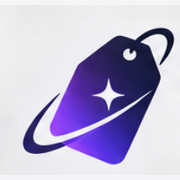
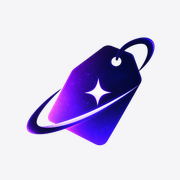
Add files via upload

diff --git a/index.html b/index.html
@@ -14,13 +14,12 @@
 <meta charset="utf-8" />
 <title>Galaxy Deal Qualifier</title>
 <meta name="viewport" content="width=device-width, initial-scale=1" />
+<link rel="icon" type="image/x-icon" sizes="16x16 32x32 48x48" href="favicon.ico?v=final-4" />
+<link rel="icon" type="image/png" sizes="64x64" href="favicon.png?v=final-4" />
+<link rel="apple-touch-icon" sizes="180x180" href="apple-touch-icon.png?v=final-4" />
 <link rel="stylesheet" href="styles.css" />
-<link rel="stylesheet" href="brand-accent.css?v=1" />
-<link rel="stylesheet" href="logo-theme.css?v=2" />
-<link rel="icon" href="favicon.ico?v=2" sizes="any" />
-<link id="site-favicon" rel="icon" type="image/png" sizes="64x64" href="favicon-light.png?v=2" />
-<script src="favicon-theme.js?v=2" defer></script>
-
+<link rel="stylesheet" href="brand-accent.css?v=final-4" />
+<link rel="stylesheet" href="logo-theme.css?v=final-4" />
 <script>
   (function () {
     try {
@@ -36,10 +35,7 @@
 <div class="app">
 <aside class="side" aria-label="Galaxy Deal Qualifier">
   <div class="side-brand">
-    <span class="side-mark" aria-hidden="true">
-      <img class="brand-logo brand-logo-light" src="logo-light.svg" alt="" width="28" height="28" />
-      <img class="brand-logo brand-logo-dark" src="logo-dark.svg" alt="" width="28" height="28" />
-    </span>
+    <span class="side-mark" aria-hidden="true"><img class="brand-logo" src="logo.png?v=final-4" alt="" width="24" height="24" /></span>
     <span class="side-name">Galaxy Deal Qualifier<small>Retail pricing &amp; quotes</small></span>
   </div>
 

diff --git a/brand-accent.css b/brand-accent.css
@@ -1,21 +1,8 @@
-/* One consistent brand accent; light and dark modes remain available. */
-:root {
-  --accent: #6835d6;
-  --accent-ink: #ffffff;
-  --accent-soft: #f0eafd;
-  --accent-line: #ccb8f3;
+/* Fixed purple brand accent. Light and dark themes remain available. */
+@media screen {
+  :root { --accent: #6835d6; --accent-ink: #fff; --accent-soft: #f0eafd; --accent-line: #ccb8f3; }
+  :root[data-theme="dark"] { --accent: #b99aff; --accent-ink: #151020; --accent-soft: #2a203b; --accent-line: #614988; }
 }
-:root[data-theme="dark"] {
-  --accent: #b99aff;
-  --accent-ink: #151020;
-  --accent-soft: #2a203b;
-  --accent-line: #614988;
-}
-@media (prefers-color-scheme: dark) {
-  :root:not([data-theme="light"]) {
-    --accent: #b99aff;
-    --accent-ink: #151020;
-    --accent-soft: #2a203b;
-    --accent-line: #614988;
-  }
+@media screen and (prefers-color-scheme: dark) {
+  :root:not([data-theme="light"]) { --accent: #b99aff; --accent-ink: #151020; --accent-soft: #2a203b; --accent-line: #614988; }
 }

diff --git a/logo-theme.css b/logo-theme.css
@@ -1,4 +1,4 @@
-/* Fixed square badge; the supplied purple logo stays unchanged. */
+/* Final brand mark: square badge, small centred original logo. */
 .side-brand .side-mark {
   display: grid;
   place-items: center;
@@ -8,7 +8,7 @@
   flex: 0 0 36px;
   padding: 6px;
   background: #f5f5f7;
-  border: 1px solid #cfd3dd;
+  border: 1px solid #d6d8e1;
   border-radius: 6px;
   box-shadow: none;
   filter: none;

diff --git a/README.md b/README.md
@@ -6,59 +6,36 @@ Not an official Samsung system. Always confirm the final price in POS.
 
 Created by Isaiah Graham & Harsha Parthiban. © 2026 Isaiah Graham & Harsha Parthiban.
 
+## Publish this update
+
+Upload the files inside this folder to your existing GitHub repository root and replace matching files. Do not upload the enclosing folder. Keep your existing scripts folder unchanged; it is intentionally not included in this package.
+
+This package is based on the published v9.2 HTML and CSS. Pricing data and application logic are preserved. The final logo is copied unchanged from the supplied PNG. The sidebar uses a 36px square badge with a 24px centred image. Browser and Apple icons are derived from the same image. Theme colour options are removed; a fixed purple accent and light/dark mode remain.
+
 ## Files
 
-- index.html — website content, catalogue, offer data and application logic.
-- styles.css — your supplied website styling.
-- logo-theme.css — switches the sidebar logo with the website theme.
-- favicon-theme.js — switches the browser tab logo with the website theme.
-- logo-light.svg — navy logo for light mode.
-- logo-dark.svg — white logo for dark mode.
-- .nojekyll — serves the files directly on GitHub Pages.
+- index.html — complete website and application logic.
+- styles.css — existing published website styling.
+- brand-accent.css — fixed purple accent.
+- logo-theme.css — small square logo badge.
+- logo.png — final original logo.
+- favicon.ico and favicon.png — browser tab icons.
+- apple-touch-icon.png — Apple home-screen icon.
+- saleskit-sync-status.json — last published sync record, if available.
+- .nojekyll — GitHub Pages configuration.
 
-Keep all files together. No build step or package installation is required.
+## Deployment workflow
 
-## Publish on GitHub Pages
+If your existing Pages workflow copies selected files to _site, its copy step must include:
 
-Upload the contents of this folder to the folder your GitHub Pages site publishes from. Replace the existing index.html and styles.css. Commit the files and wait for the deployment to finish, then refresh the published website. If the old tab icon remains, close and reopen the tab.
+cp index.html styles.css brand-accent.css logo-theme.css logo.png favicon.ico favicon.png apple-touch-icon.png saleskit-sync-status.json .nojekyll _site/
 
-## Use
+No changes to scripts/sync_saleskit.py, scripts/saleskit-baseline.json or either test file are needed for this logo update. Scheduled sync still requires the GitHub workflow to be present and enabled.
 
-Select your store, choose a device and variant, choose Standard, Education or SMB pricing, review offers, enable applicable trade-in or bundle options, add items to the quote, and print or copy it.
+## Old logo files
 
-## Edit
+After this HTML is deployed, it no longer needs logo-light.svg, logo-dark.svg, logo-purple.png, favicon-light.png, favicon-dark.png or favicon-theme.js. Remove references to those files from a deployment workflow before deleting them.
 
-Edit styles.css for appearance and index.html for content, offers and functionality. Preserve existing element IDs and data attributes. Logo switching supports manual light/dark selection and the system theme.
+## Check after publishing
 
-## Automatic Sales Kit updates
-
-The GitHub workflow `.github/workflows/saleskit-sync.yml` checks all nine public Sales Kit category pages every six hours, on changes pushed to main, and on manual runs. It regenerates supported offers and publishes the website through GitHub Pages. GitHub schedules may run later than scheduled.
-
-Education rate, expiry and bulletin updates are automatic while the reviewed device coverage and stacking rules stay the same. Straightforward retail SAVE dollar/percentage offers are imported when their model, start/end dates, amount and Education/SMB exclusions are explicit. Historical changelog entries are ignored. Unrecognised mappings and changes to complex sections produce visible review warnings. Trade-in, MBO, voucher, loyalty, accessories and SMB rules require a reviewed update when their coverage or conditions change.
-
-The current Education offers were verified against bulletin A260006390: 20% off, ending 2 November 2026. Offer dates are inclusive and read as Australian day/month/year dates.
-
-The updater fails without deploying if a source cannot be fetched or core Education validation fails. The previous published site stays online. The website shows the actual check date and warns when the check is older than 24 hours. Offers still expire normally; the updater never extends an offer by guessing. Reload the site to use a newly deployed offer set.
-
-The workflow publishes updated files without committing them back to the repository. A successful run's website artifact and saleskit-sync-status.json record that run's result. scripts/saleskit-baseline.json contains the reviewed Education coverage and source fingerprints; update it only after reviewing changed source rules.
-
-## Enable the workflow on GitHub
-
-1. Upload all project files to the repository root on main, including the hidden .github directory and the scripts directory. Keep the workflow at .github/workflows/saleskit-sync.yml.
-2. Open repository Settings → Pages and set Source to GitHub Actions.
-3. Open Actions → Sync Sales Kit and publish website → Run workflow.
-4. Confirm the sync, tests and deployment all succeed. Check the published site's check date and Education pricing.
-
-The generated package targets the root/main layout of https://github.com/Galaxy-Deal-Qualifier/galaxy-deal-qualifier.github.io. If another workflow already deploys Pages, replace or disable it to avoid competing deployments. No credentials for the public Sales Kit or third-party proxy are required. Repository restrictions may require an administrator to enable Pages deployment permissions.
-
-## Validate locally
-
-Run `python3 -m unittest discover -s scripts -p 'test_*.py'`, then `python3 scripts/sync_saleskit.py`, then `node scripts/test_pricing.cjs`. Python 3.9+ and Node are used by the update/tests; visitors need only a browser. All parser dependencies are from the Python standard library.
-
-## Release history
-
-Version 1.0 was released on 12 August 2026 with basic device pricing only. See What's New in the website for later releases.
-
-## Validation
-
-Check pricing, eligibility, trade-in, bundles, printing, narrow-screen layout and both themes after changes. This package is the website with theme-aware logos; it does not include PWA installation or offline caching.
+Wait for deployment, reload the page and close/reopen the tab. Browser or host-app favicon caches may refresh separately. Check light/dark mode, device pricing, quoting and print preview. This package does not add PWA installation support.
